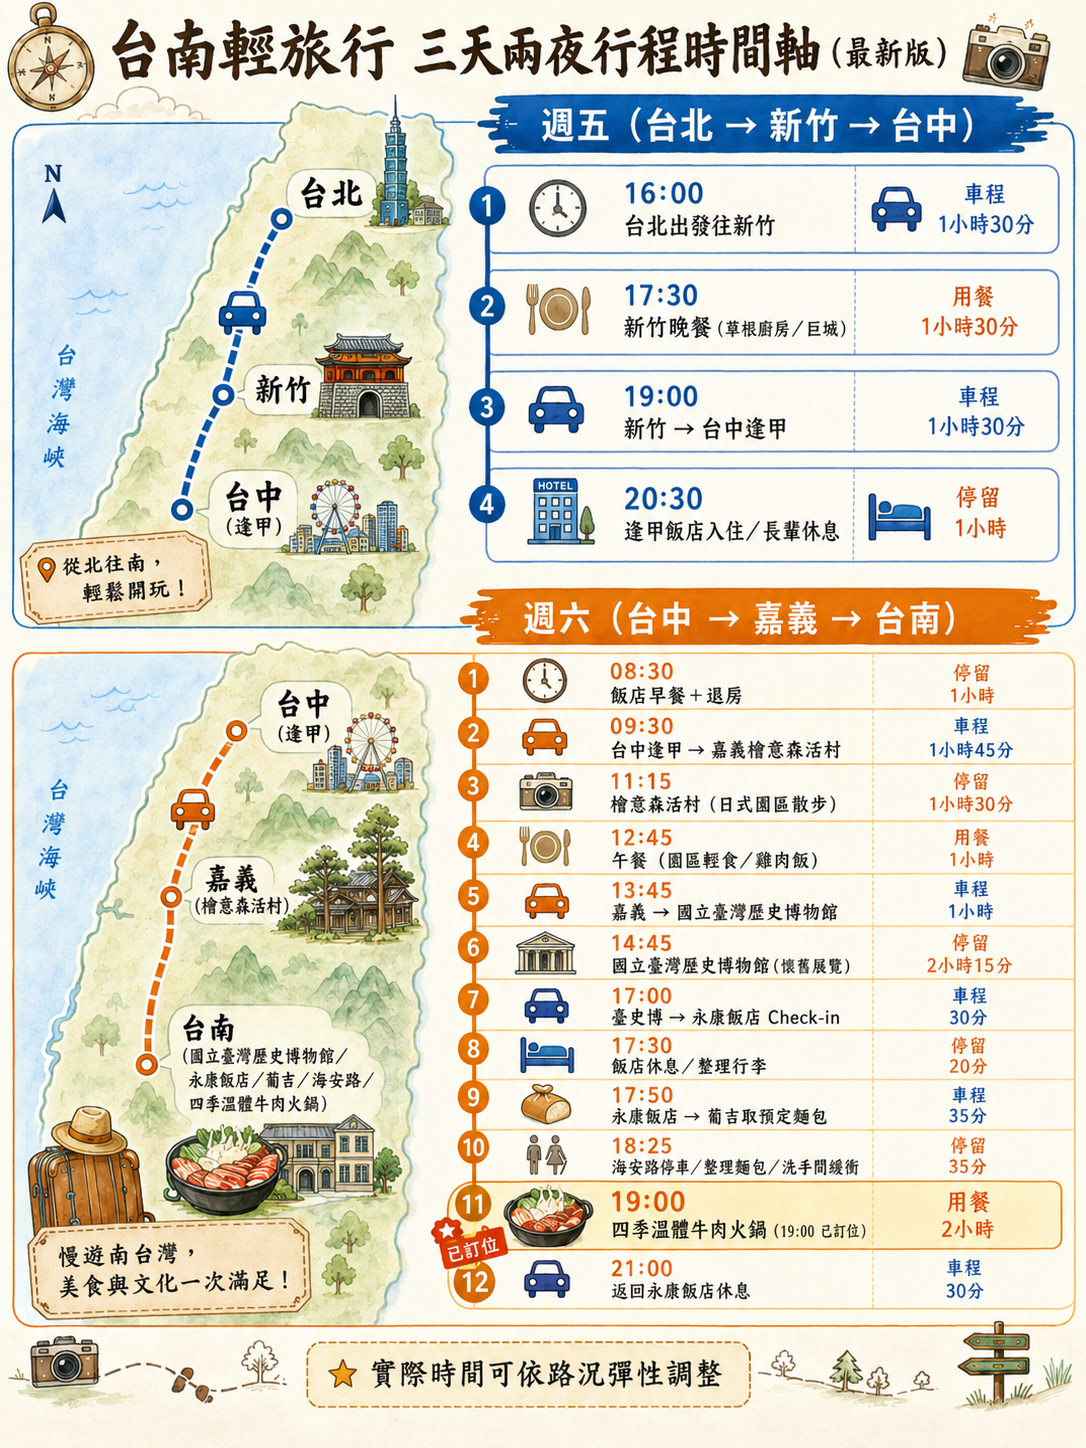
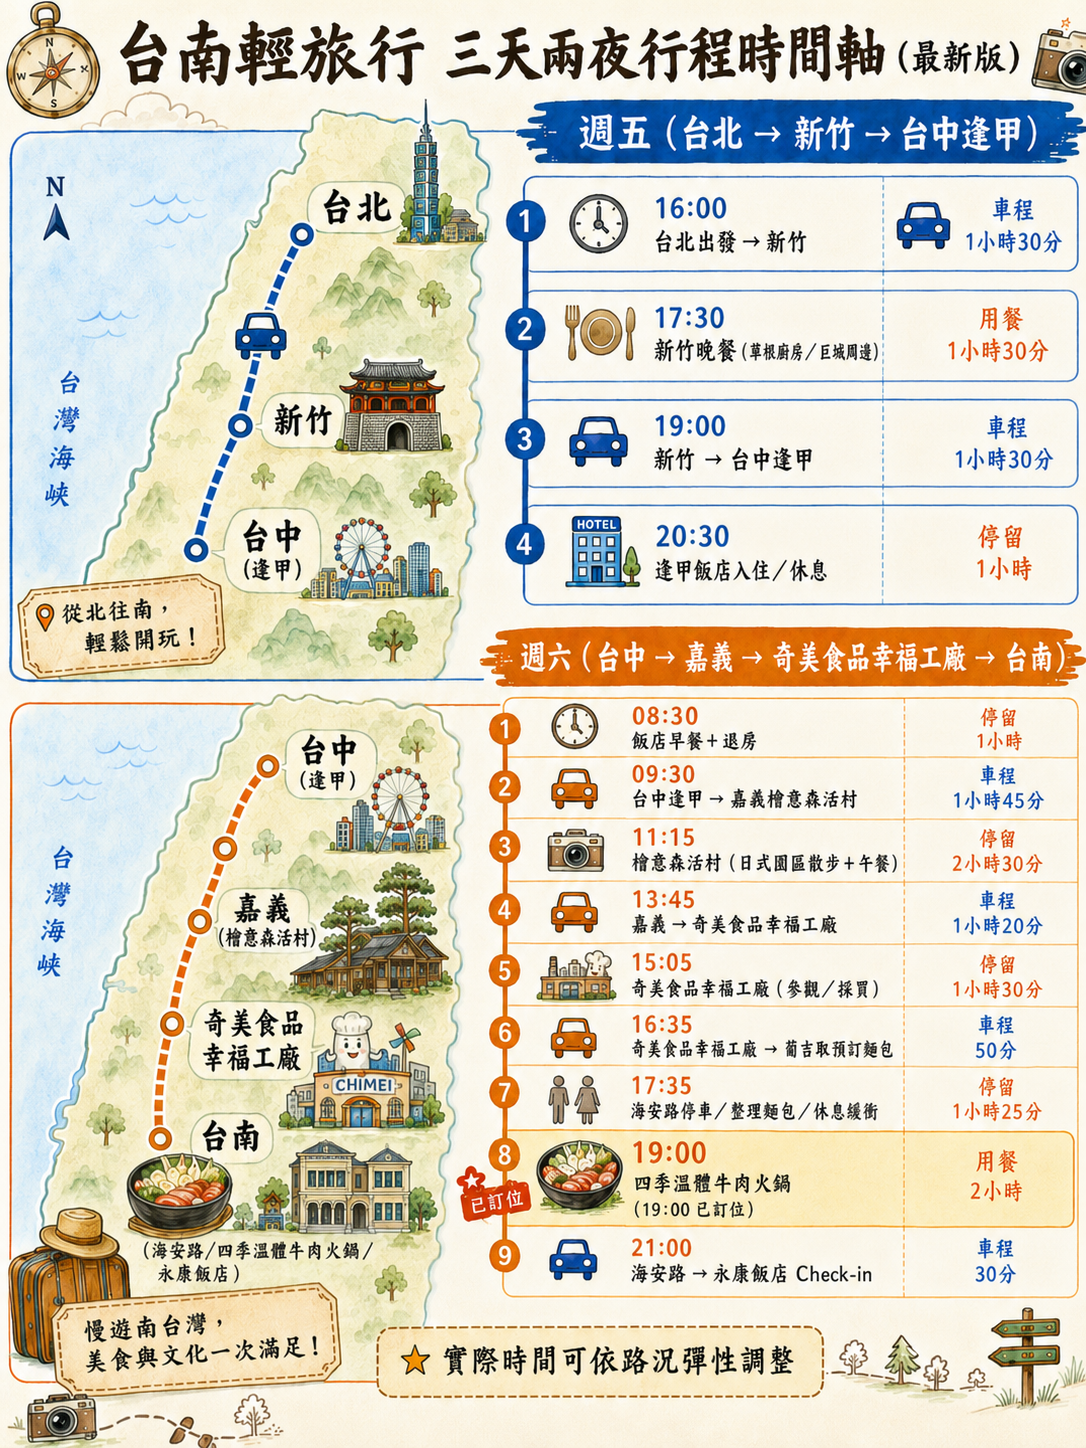
Add files via upload

diff --git a/index.html b/index.html
@@ -34,11 +34,17 @@
                 <div class="map-showcase">
                     <div class="map-card" id="map-day-1-2">
                         <h3>📅 週五、週六南下行程</h3>
-                        <img src="./tainan_trip_fri_sat_map.png" alt="週五與週六行程時間軸與路線圖">
+                        <button class="map-preview-btn" type="button" data-full="./tainan_trip_fri_sat_map.png" data-title="週五、週六南下行程">
+                            <img src="./tainan_trip_fri_sat_map.png" alt="週五與週六行程時間軸與路線圖">
+                            <span>點擊放大查看</span>
+                        </button>
                     </div>
                     <div class="map-card" id="map-day-3">
                         <h3>📅 週日安平北返行程</h3>
-                        <img src="./tainan_trip_sun_map.png" alt="週日安平北返時間軸與路線圖">
+                        <button class="map-preview-btn" type="button" data-full="./tainan_trip_sun_map.png" data-title="週日安平北返行程">
+                            <img src="./tainan_trip_sun_map.png" alt="週日安平北返時間軸與路線圖">
+                            <span>點擊放大查看</span>
+                        </button>
                     </div>
                 </div>
             </div>
@@ -110,7 +116,7 @@
 
                 <!-- 🟢 週六 -->
                 <div class="day-block" id="day-saturday">
-                    <div class="day-header day-2">Day 2：週六 ➔ 嘉義檜意森活村 ➔ 臺灣歷史博物館 ➔ 台南牛肉火鍋</div>
+                    <div class="day-header day-2">Day 2：週六 ➔ 嘉義檜意森活村 ➔ 奇美幸福工廠 ➔ 葡吉與台南牛肉火鍋</div>
 
                     <!-- 事件 3 -->
                     <div class="event-card" id="event-chiayi">
@@ -138,21 +144,21 @@
                     </div>
 
                     <!-- 事件 4 -->
-                    <div class="event-card" id="event-nmth">
-                        <div class="event-time">⏰ 14:45 - 17:00</div>
+                    <div class="event-card" id="event-chimei-factory">
+                        <div class="event-time">⏰ 15:05 - 16:35</div>
                         <div class="event-title">
-                            <span>國立臺灣歷史博物館</span>
+                            <span>奇美食品幸福工廠</span>
                             <div style="display: flex; gap: 8px; flex-wrap: wrap;">
-                                <a href="https://www.google.com/maps/search/?api=1&query=國立臺灣歷史博物館" target="_blank" class="btn-map" id="link-nmth">📍 導航至歷史博物館</a>
-                                <a href="https://www.nmth.gov.tw/" target="_blank" class="btn-link" id="web-nmth">🔗 博物館官網</a>
+                                <a href="https://www.google.com/maps/search/?api=1&query=奇美食品幸福工廠" target="_blank" class="btn-map" id="link-chimei-factory">📍 導航至幸福工廠</a>
+                                <a href="https://www.happychimei.com.tw/visitInfo.php" target="_blank" class="btn-link" id="web-chimei-factory">🔗 幸福工廠官網</a>
                             </div>
                         </div>
                         <div class="event-desc">
-                            車程約 50 分鐘。前往位於台南安南區（臨近永康）的歷史博物館，館內展示臺灣歷史常民文化，有許多早期雜貨店、舊車站街景的精彩擬真重現。
+                            13:45 從嘉義出發，前往奇美食品幸福工廠（車程約 1 小時 20 分鐘）。15:05-16:35 採輕鬆參觀，以品牌故事、食品展示、伴手禮採買與館內休息為主。
                         </div>
                         <div class="feature-badge">
-                            <i>🏛</i>
-                            <span><strong>人文與無障礙特色：</strong> 全館強冷氣開放，動線極寬敞平緩。館內有許多懷舊舊物能喚起長輩的青春回憶。<strong>館內服務台可免費登記借用輪椅</strong>，設有充足的無障礙電梯與洗手間。</span>
+                            <i>🥟</i>
+                            <span><strong>景點特色：</strong> 食品觀光工廠、奇美包子水餃品牌故事與伴手禮採買，室內停留比戶外輕鬆。因晚上還有葡吉與火鍋，建議當作「短停＋休息＋採買」景點。</span>
                         </div>
                     </div>
 
@@ -160,7 +166,7 @@
                     <div class="event-card" id="event-checkin-hotpot">
                         <div class="event-time">⏰ 17:00 - 20:45</div>
                         <div class="event-title">
-                            <span>永康飯店 Check-in ➔ 葡吉取麵包 ➔ 四季溫體牛肉火鍋</span>
+                            <span>奇美幸福工廠 ➔ 葡吉取麵包 ➔ 四季溫體牛肉火鍋 ➔ 永康飯店</span>
                             <div style="display: flex; gap: 8px; flex-wrap: wrap;">
                                 <a href="https://www.google.com/maps/search/?api=1&query=葡吉麵包店+台南" target="_blank" class="btn-map" id="link-pucci">📍 導航至葡吉</a>
                                 <a href="https://www.google.com/maps/search/?api=1&query=四季溫體牛肉火鍋+海安路" target="_blank" class="btn-map" id="link-hotpot">📍 導航至火鍋店</a>
@@ -168,11 +174,11 @@
                             </div>
                         </div>
                         <div class="event-desc">
-                            17:00 離開博物館，約 17:30 抵達永康飯店 Check-in。17:50 從飯店出發前往葡吉取預定好的麵包（車程約 20 分鐘），18:10-18:25 取貨後再前往海安路四季溫體牛肉火鍋（車程約 10 分鐘）。火鍋訂位為 19:00，取貨後可保留停車、整理麵包與長輩上洗手間的緩衝時間，餐後返回飯店休息。
+                            16:35 離開奇美食品幸福工廠，直接前往葡吉取預定好的麵包（車程約 25-30 分鐘）。17:05-17:25 取貨後前往海安路地下停車場（車程約 5-10 分鐘），17:35-19:00 保留停車、整理麵包、長輩上洗手間與附近休息的緩衝。19:00 四季溫體牛肉火鍋，晚餐後再回永康飯店 Check-in 與休息。
                         </div>
                         <div class="feature-badge" style="margin-top: 10px; background-color: hsl(45, 100%, 96%); border: 1px solid rgba(214, 161, 76, 0.25);">
                             <i>🥖</i>
-                            <span><strong>葡吉取貨提醒：</strong>這段時間較緊，建議先電話確認取貨時段與品項，抵達時由一人下車快取，其他人留車上休息，避免長輩跟著下車久等。</span>
+                            <span><strong>葡吉取貨提醒：</strong>行李會先放車上，貴重物品請隨身或收進後車廂。抵達葡吉時建議一人下車快取，其他人留車上休息，避免長輩跟著下車久等。</span>
                         </div>
                         <div class="feature-badge">
                             <i>🍲</i>
@@ -308,7 +314,7 @@
                     <div class="tip-icon">♿</div>
                     <div class="tip-content">
                         <h4>免付費無障礙設施</h4>
-                        <p>「國立臺灣歷史博物館」室內動線寬敞，安平樹屋與老街則建議縮短停留時間、避開久站。若長輩步行較累，優先找餐廳或咖啡座坐下休息。</p>
+                        <p>奇美食品幸福工廠與安平樹屋都建議抓重點短逛，不硬走完整園區。若長輩步行較累，優先找館內座椅、餐廳或咖啡座坐下休息。</p>
                     </div>
                 </div>
 
@@ -333,6 +339,24 @@
 
     </main>
 
+    <div class="map-lightbox" id="map-lightbox" aria-hidden="true">
+        <div class="map-lightbox-backdrop" data-close-lightbox></div>
+        <div class="map-lightbox-dialog" role="dialog" aria-modal="true" aria-labelledby="map-lightbox-title">
+            <div class="map-lightbox-header">
+                <h3 id="map-lightbox-title">行程圖</h3>
+                <div class="map-lightbox-tools" aria-label="圖片縮放控制">
+                    <button type="button" id="map-zoom-out" aria-label="縮小行程圖">−</button>
+                    <button type="button" id="map-zoom-reset">100%</button>
+                    <button type="button" id="map-zoom-in" aria-label="放大行程圖">＋</button>
+                </div>
+                <button class="map-lightbox-close" type="button" aria-label="關閉放大圖" data-close-lightbox>×</button>
+            </div>
+            <div class="map-lightbox-body">
+                <img id="map-lightbox-img" src="" alt="">
+            </div>
+        </div>
+    </div>
+
     <!-- 頁尾 -->
     <footer>
         <div class="container">
@@ -340,6 +364,78 @@
             <p style="font-size: 0.8rem; margin-top: 8px; opacity: 0.7;">本網站已準備就緒，可直接部署至 GitHub Pages 分享使用</p>
         </div>
     </footer>
+
+    <script>
+        document.addEventListener('DOMContentLoaded', function() {
+            const lightbox = document.getElementById('map-lightbox');
+            const lightboxImg = document.getElementById('map-lightbox-img');
+            const lightboxTitle = document.getElementById('map-lightbox-title');
+            const lightboxBody = document.querySelector('.map-lightbox-body');
+            const zoomInButton = document.getElementById('map-zoom-in');
+            const zoomOutButton = document.getElementById('map-zoom-out');
+            const zoomResetButton = document.getElementById('map-zoom-reset');
+            const previewButtons = document.querySelectorAll('.map-preview-btn');
+            const closeButtons = document.querySelectorAll('[data-close-lightbox]');
+            let currentZoom = 1;
+
+            const applyZoom = () => {
+                lightboxImg.style.width = `${Math.round(currentZoom * 100)}%`;
+                zoomResetButton.textContent = `${Math.round(currentZoom * 100)}%`;
+            };
+
+            const closeLightbox = () => {
+                lightbox.classList.remove('active');
+                lightbox.setAttribute('aria-hidden', 'true');
+                lightboxImg.setAttribute('src', '');
+                document.body.classList.remove('lightbox-open');
+                currentZoom = 1;
+                applyZoom();
+            };
+
+            previewButtons.forEach((button) => {
+                button.addEventListener('click', () => {
+                    const src = button.getAttribute('data-full');
+                    const title = button.getAttribute('data-title') || '行程圖';
+                    const alt = button.querySelector('img')?.getAttribute('alt') || title;
+                    lightboxImg.setAttribute('src', src);
+                    lightboxImg.setAttribute('alt', alt);
+                    lightboxTitle.textContent = title;
+                    currentZoom = 1;
+                    applyZoom();
+                    lightbox.classList.add('active');
+                    lightbox.setAttribute('aria-hidden', 'false');
+                    document.body.classList.add('lightbox-open');
+                    lightboxBody.scrollTop = 0;
+                    lightboxBody.scrollLeft = 0;
+                });
+            });
+
+            zoomInButton.addEventListener('click', () => {
+                currentZoom = Math.min(2.5, currentZoom + 0.25);
+                applyZoom();
+            });
+
+            zoomOutButton.addEventListener('click', () => {
+                currentZoom = Math.max(0.75, currentZoom - 0.25);
+                applyZoom();
+            });
+
+            zoomResetButton.addEventListener('click', () => {
+                currentZoom = 1;
+                applyZoom();
+            });
+
+            closeButtons.forEach((button) => {
+                button.addEventListener('click', closeLightbox);
+            });
+
+            document.addEventListener('keydown', (event) => {
+                if (event.key === 'Escape' && lightbox.classList.contains('active')) {
+                    closeLightbox();
+                }
+            });
+        });
+    </script>
 
 </body>
 </html>

diff --git a/style.css b/style.css
@@ -594,10 +594,16 @@ footer {
 
 .map-showcase {
   display: grid;
-  grid-template-columns: 1fr;
-  gap: 32px;
-  max-width: 980px;
+  grid-template-columns: repeat(2, minmax(0, 1fr));
+  gap: 24px;
+  max-width: 900px;
   margin: 0 auto;
+}
+
+@media (max-width: 820px) {
+  .map-showcase {
+    grid-template-columns: 1fr;
+  }
 }
 
 .map-card {
@@ -621,9 +627,133 @@ footer {
   font-weight: 700;
 }
 
-.map-card img {
+.map-preview-btn {
   width: 100%;
+  border: 0;
+  padding: 0;
+  background: transparent;
+  cursor: zoom-in;
+  position: relative;
+  display: block;
+  text-align: left;
+}
+
+.map-preview-btn img {
+  width: 100%;
+  max-height: 360px;
+  object-fit: cover;
+  object-position: top center;
   border-radius: 8px;
   border: 1px solid rgba(74, 59, 50, 0.08);
   display: block;
+}
+
+.map-preview-btn span {
+  position: absolute;
+  right: 12px;
+  bottom: 12px;
+  background: rgba(44, 59, 50, 0.86);
+  color: #ffffff;
+  padding: 6px 12px;
+  border-radius: 999px;
+  font-size: 0.85rem;
+  font-weight: 700;
+}
+
+.map-lightbox {
+  position: fixed;
+  inset: 0;
+  z-index: 1000;
+  display: none;
+  align-items: center;
+  justify-content: center;
+  padding: 24px;
+}
+
+.map-lightbox.active {
+  display: flex;
+}
+
+.map-lightbox-backdrop {
+  position: absolute;
+  inset: 0;
+  background: rgba(20, 17, 14, 0.72);
+  backdrop-filter: blur(4px);
+}
+
+.map-lightbox-dialog {
+  position: relative;
+  width: min(1120px, 96vw);
+  max-height: 92vh;
+  background: #fffaf0;
+  border-radius: 12px;
+  box-shadow: 0 28px 80px rgba(0, 0, 0, 0.35);
+  overflow: hidden;
+  border: 1px solid rgba(255, 255, 255, 0.45);
+}
+
+.map-lightbox-header {
+  display: flex;
+  align-items: center;
+  justify-content: space-between;
+  gap: 16px;
+  padding: 12px 16px;
+  background: var(--secondary-color);
+  color: #ffffff;
+}
+
+.map-lightbox-header h3 {
+  font-size: 1rem;
+  margin: 0;
+}
+
+.map-lightbox-tools {
+  display: flex;
+  align-items: center;
+  gap: 8px;
+  margin-left: auto;
+}
+
+.map-lightbox-tools button {
+  border: 1px solid rgba(255, 255, 255, 0.28);
+  background: rgba(255, 255, 255, 0.12);
+  color: #ffffff;
+  min-width: 42px;
+  height: 34px;
+  border-radius: 8px;
+  font-size: 0.95rem;
+  font-weight: 700;
+  cursor: pointer;
+}
+
+.map-lightbox-close {
+  border: 0;
+  background: rgba(255, 255, 255, 0.15);
+  color: #ffffff;
+  width: 34px;
+  height: 34px;
+  border-radius: 50%;
+  font-size: 1.5rem;
+  line-height: 1;
+  cursor: pointer;
+}
+
+.map-lightbox-body {
+  max-height: calc(92vh - 58px);
+  overflow: auto;
+  background: #fffaf0;
+  text-align: center;
+}
+
+.map-lightbox-dialog img {
+  display: inline-block;
+  width: 100%;
+  max-width: none;
+  object-fit: initial;
+  background: #fffaf0;
+  transform-origin: top center;
+}
+
+body.lightbox-open {
+  overflow: hidden;
 }
